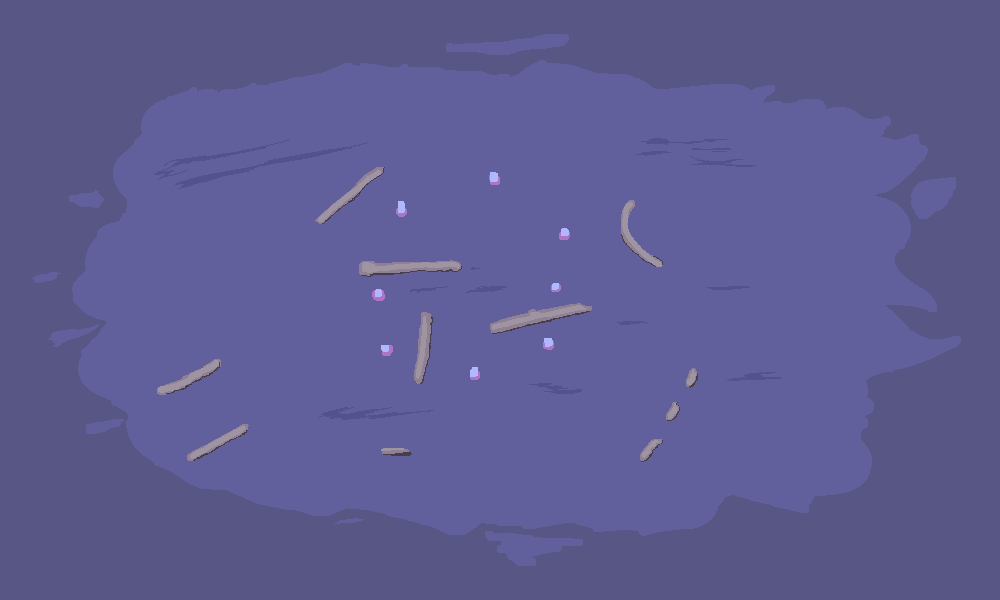
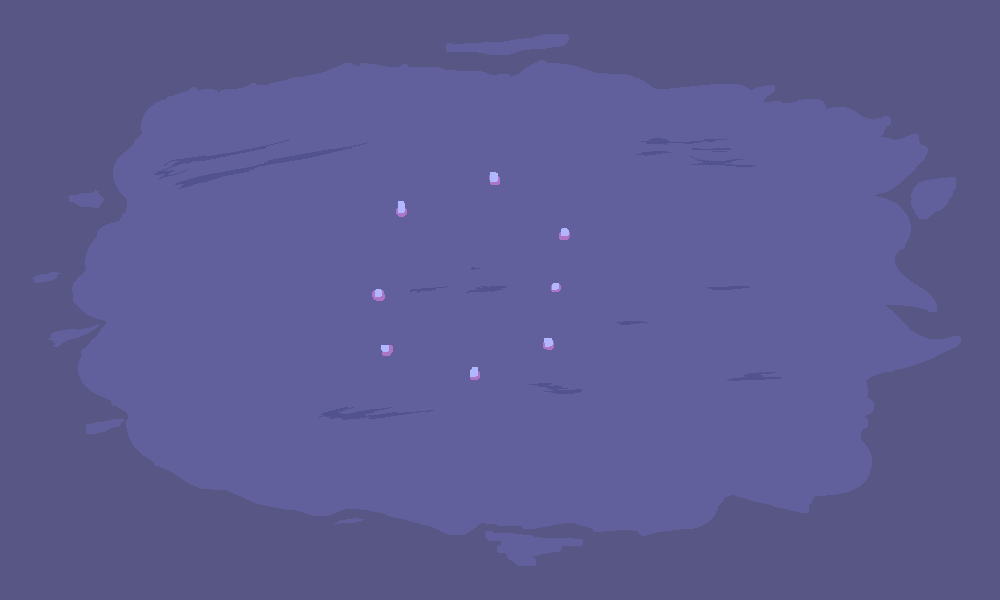
Make walls destroyable, remove walls from texture

diff --git a/Sources/Game/Play.cpp b/Sources/Game/Play.cpp
@@ -50,12 +50,18 @@ void Game::Play::update() {
                       // TODO: Avoid n^2
                       for (auto &wall : walls) {
                           if ((bullet.pos - wall.position).squareLength() < (10 * 10)) {
+                              wall.health--;
                               return true;
                           }
                       }
                       return false;
                   }),
                   bullets.end());
+
+    walls.erase(std::remove_if(walls.begin(), walls.end(), [&](Game::Wall wall) -> bool {
+                    return wall.health <= 0;
+                }),
+                walls.end());
 
     controlledCar->update(walls);
 

diff --git a/Sources/Game/Wall.h b/Sources/Game/Wall.h
@@ -9,6 +9,7 @@ namespace Game {
     public:
         Kore::vec2 position;
         Wall(Kore::vec2 position);
+        int health = 8;
     };
 } // namespace Game
 
